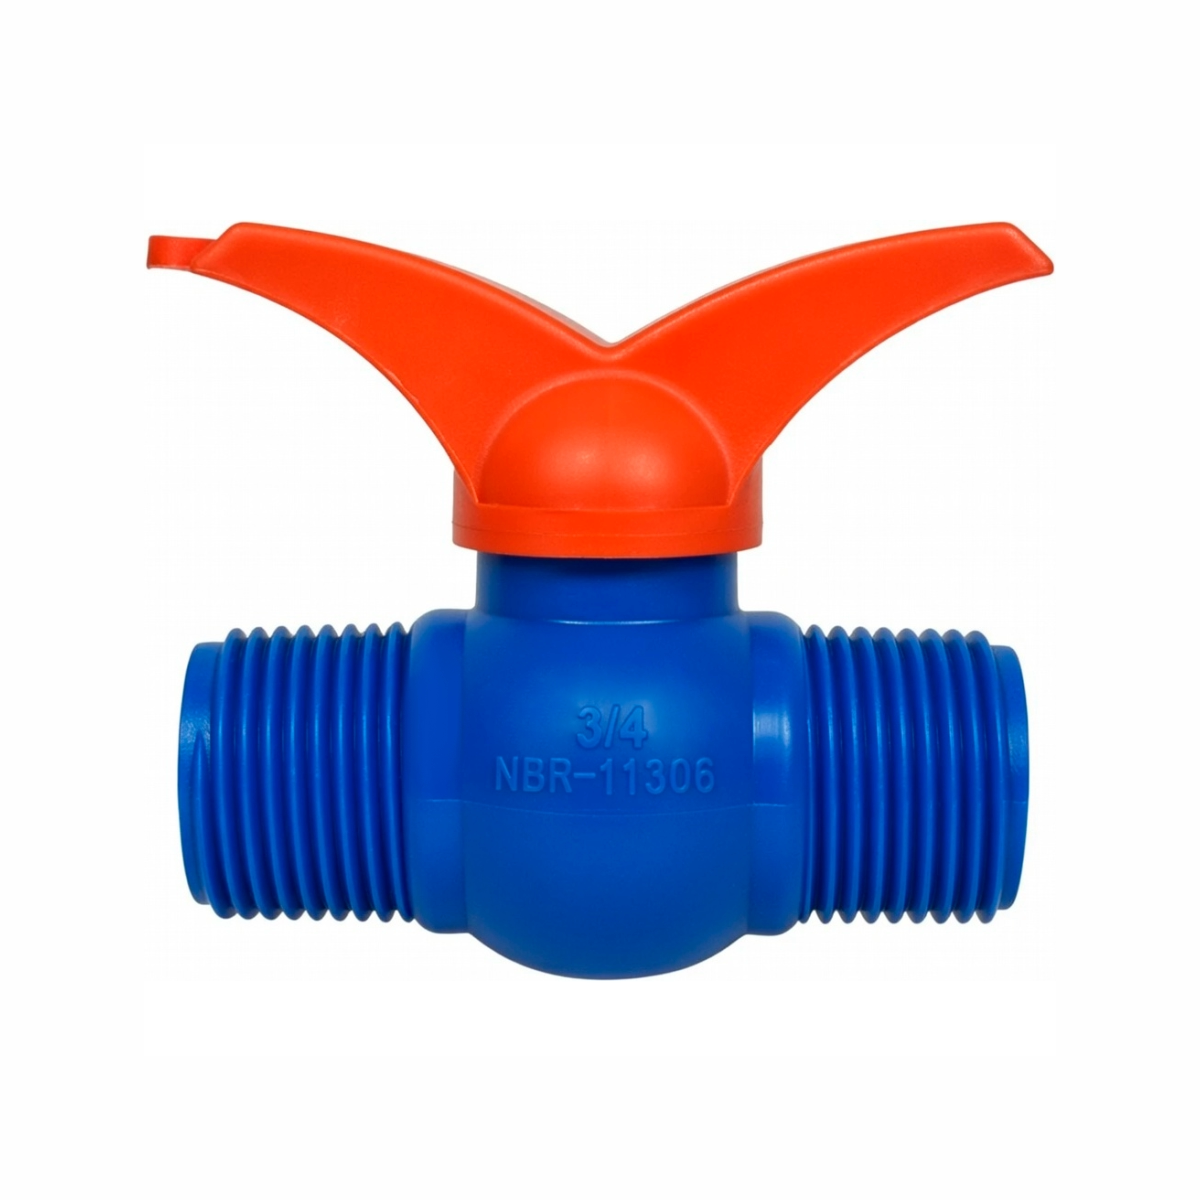
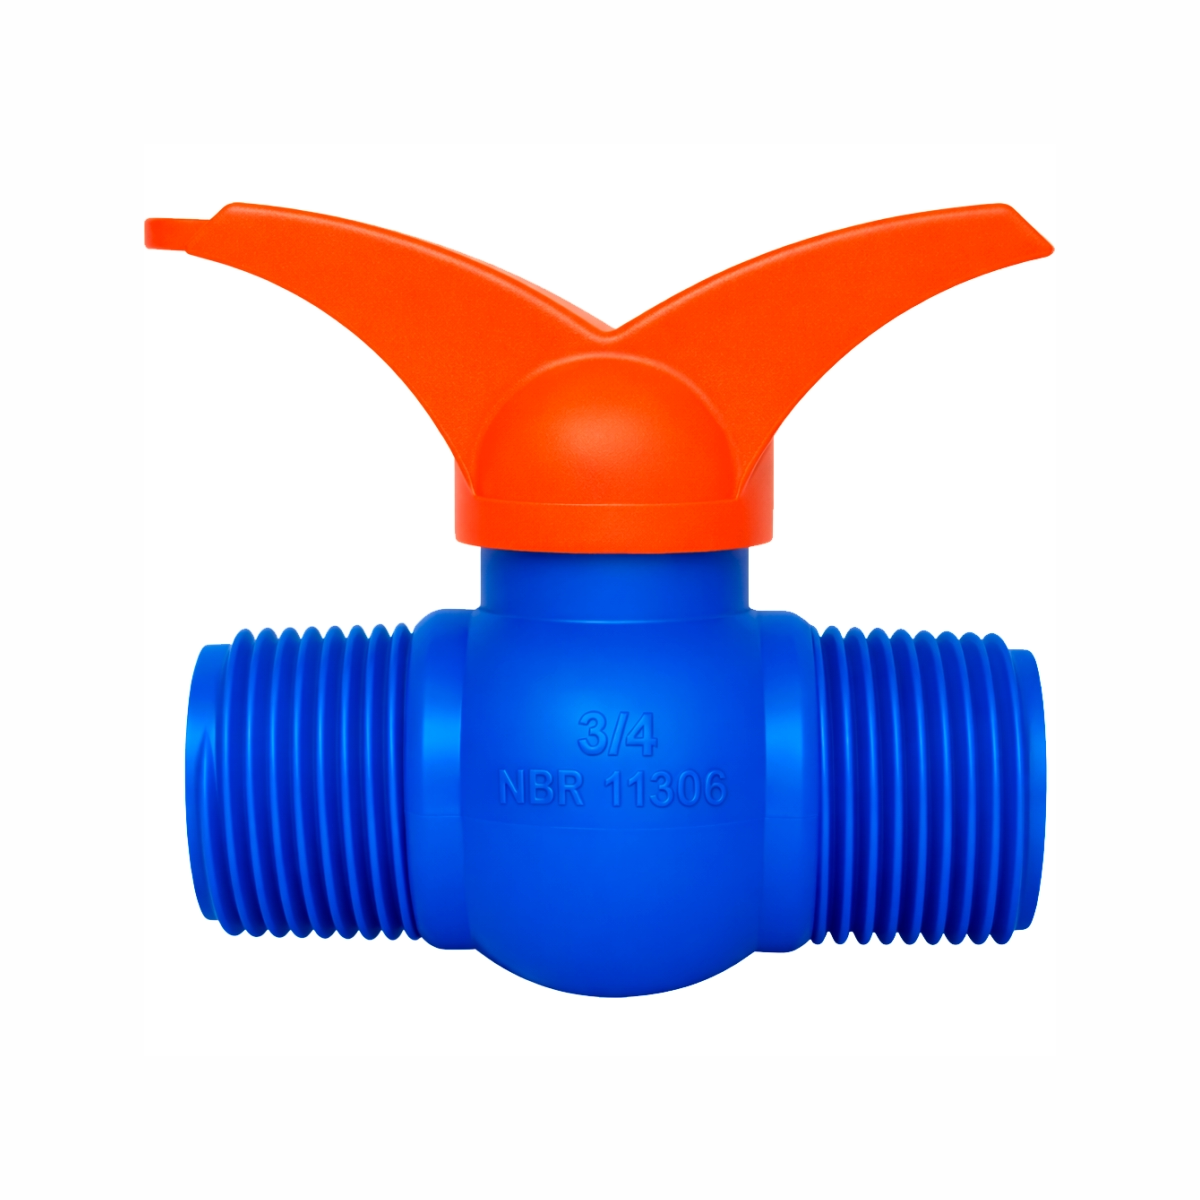
Imagens de registro 3/4 atualizadas; Trocado 'Lançamentos' por 'Exclusividades'

Changed region(s): [[0.1233, 0.1542, 0.8942, 0.8325], [0.6475, 0.2775, 0.74, 0.37]]

diff --git a/src/pages/ProdutosLancamento.jsx b/src/pages/ProdutosLancamento.jsx
@@ -16,7 +16,7 @@ const ProdutosLancamento = () => {
     return () => clearTimeout(timer);
   }, []);
 
-  // Dados dos produtos de lançamento
+  // Dados dos produtos Exclusividade
   const produtosLancamento = [
     {
       id: 1,
@@ -81,7 +81,7 @@ const ProdutosLancamento = () => {
         <div className="hero-overlay"></div>
         <div className="hero-conteudo">
           <span className="hero-badge">Novidades 2026</span>
-          <h1 className="hero-titulo">Lançamentos Exclusivos</h1>
+          <h1 className="hero-titulo">Exclusividades</h1>
           <p className="hero-subtitulo">
             Conheça as últimas inovações em sistemas de irrigação com tecnologia de ponta e máxima eficiência
           </p>
@@ -106,7 +106,7 @@ const ProdutosLancamento = () => {
       <section className="secao-produtos-lancamento">
         <div className="secao-header">
           <h2>Novos Produtos</h2>
-          <p>Explore nossa linha de lançamentos com as mais recentes tecnologias do mercado</p>
+          <p>Explore nossa linha de exclusividades com as mais recentes tecnologias do mercado</p>
         </div>
 
         <div className="grid-produtos-lancamento">
@@ -154,7 +154,7 @@ const ProdutosLancamento = () => {
       {/* CTA Final */}
       <section className="cta-lancamento">
         <div className="cta-conteudo">
-          <h3>Interessado em nossos lançamentos?</h3>
+          <h3>Interessado em nossas exclusividades?</h3>
           <p>Entre em contato e saiba mais sobre disponibilidade, preços e condições especiais</p>
           <button onClick={() => navigate('/Contato')} className="btn-cta-principal">Fale Conosco</button>
         </div>

diff --git a/src/pages/Home.jsx b/src/pages/Home.jsx
@@ -240,7 +240,7 @@ const Home = () => {
               {/* Coluna da direita - Textos, cards e botões */}
               <div className="modal-promo-content-wrapper">
                 <div className="modal-promo-badge">
-                  🌟 LANÇAMENTO EXCLUSIVO
+                  🌟 Exclusividade
                 </div>
 
                 <h2 id="modal-promo-titulo" className="modal-promo-titulo">
@@ -459,9 +459,9 @@ const Home = () => {
         </div>
       )}
 
-      {/* Seção de Lançamentos */}
+      {/* Seção de Exclusividades */}
       <section className="lancamentos" id="lancamentos">
-        <h2>Lançamentos</h2>
+        <h2>Exclusividades</h2>
         <p>Confira as últimas novidades em produtos para irrigação</p>
         
         <div className="lancamentos-grid">

diff --git a/src/pages/CatalogoIrrigacao.jsx b/src/pages/CatalogoIrrigacao.jsx
@@ -176,8 +176,7 @@ const CatalogoIrrigacao = () => {
       especificacoes: ['Material: PVC'],
       tamanhos: ['REG. DE ESFERA SOLDA PVC AZUL 25 MM', 'REG. DE ESFERA SOLDA PVC AZUL 32 MM',
                  'REG. DE ESFERA SOLDA PVC AZUL 35 MM', 'REG. DE ESFERA SOLDA PVC AZUL 50.6 MM',
-                 'REG. DE ESFERA SOLDA PVC AZUL 75.4 MM'
-      ]
+                 'REG. DE ESFERA SOLDA PVC AZUL 75.4 MM']
     },
     {
       id: 22,
